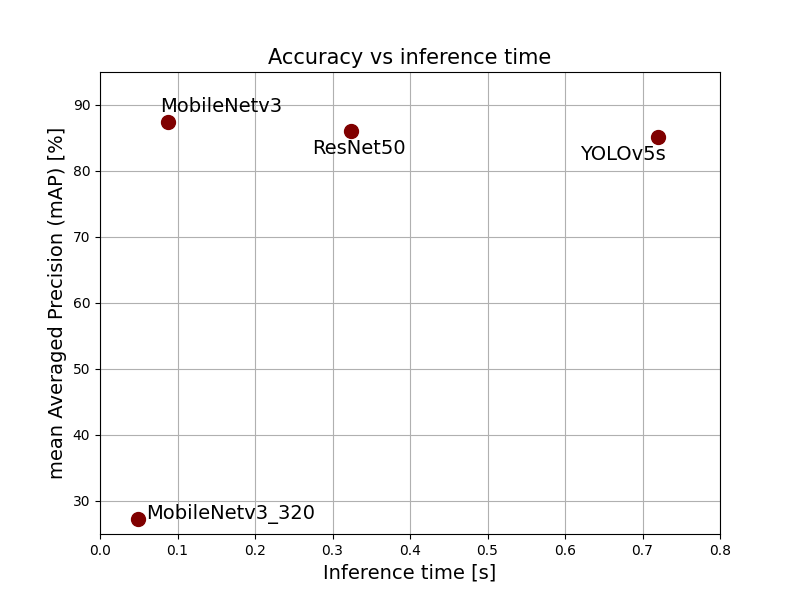
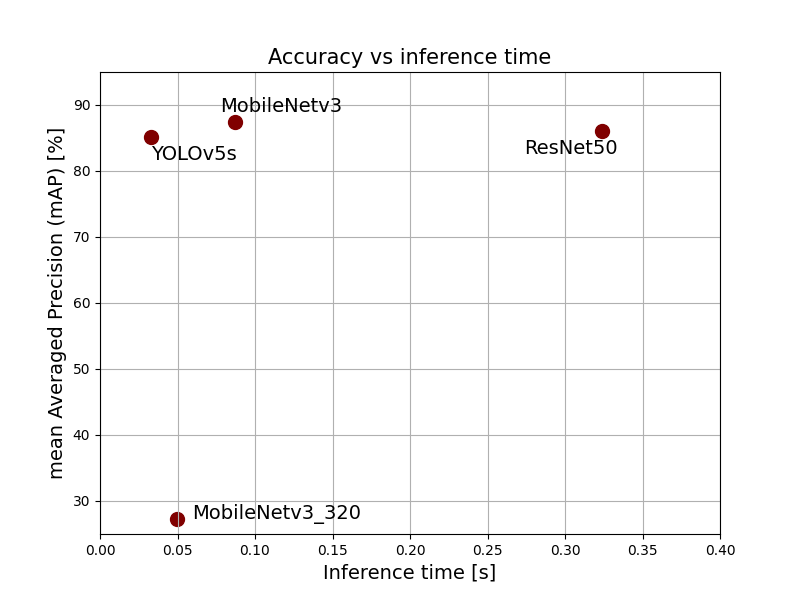
final final plotting script

diff --git a/scripts/plotting.py b/scripts/plotting.py
@@ -7,13 +7,13 @@ import matplotlib.pyplot as plt
 
 model=["MobileNetv3","MobileNetv3_320","ResNet50","YOLOv5s"]
 # Creating a numpy array
-inferencetime = np.array([0.0874, 0.0495, 0.3238, 0.72])
+inferencetime = np.array([0.0874, 0.0495, 0.3238, 0.033])
 accuracy = np.array([87.4, 27.3, 86.1, 85.1])
 # Plotting point using sactter method
 plt.figure(figsize=(8,6))
 plt.scatter(inferencetime,accuracy,s=100,color="maroon")
 plt.grid()
-plt.xlim([0, 0.8])
+plt.xlim([0, 0.4])
 plt.ylim([25, 95])
 plt.xlabel("Inference time [s]", fontsize = 14)
 plt.ylabel("mean Averaged Precision (mAP) [%]", fontsize = 14)
@@ -21,6 +21,6 @@ plt.title("Accuracy vs inference time",fontsize=15)
 plt.annotate(model[0], (inferencetime[0] - 0.01, accuracy[0] + 1.5), fontsize = 14)
 plt.annotate(model[1], (inferencetime[1] + 0.01, accuracy[1] - 0.01), fontsize = 14)
 plt.annotate(model[2], (inferencetime[2] - 0.05, accuracy[2] - 3.5), fontsize = 14)
-plt.annotate(model[3], (inferencetime[3] - 0.1, accuracy[3] - 3.5), fontsize = 14)
+plt.annotate(model[3], (inferencetime[3], accuracy[3] - 3.5), fontsize = 14)
 plt.savefig('plots/accvsinf.png', pad_inches = 0.1)
 plt.show()
